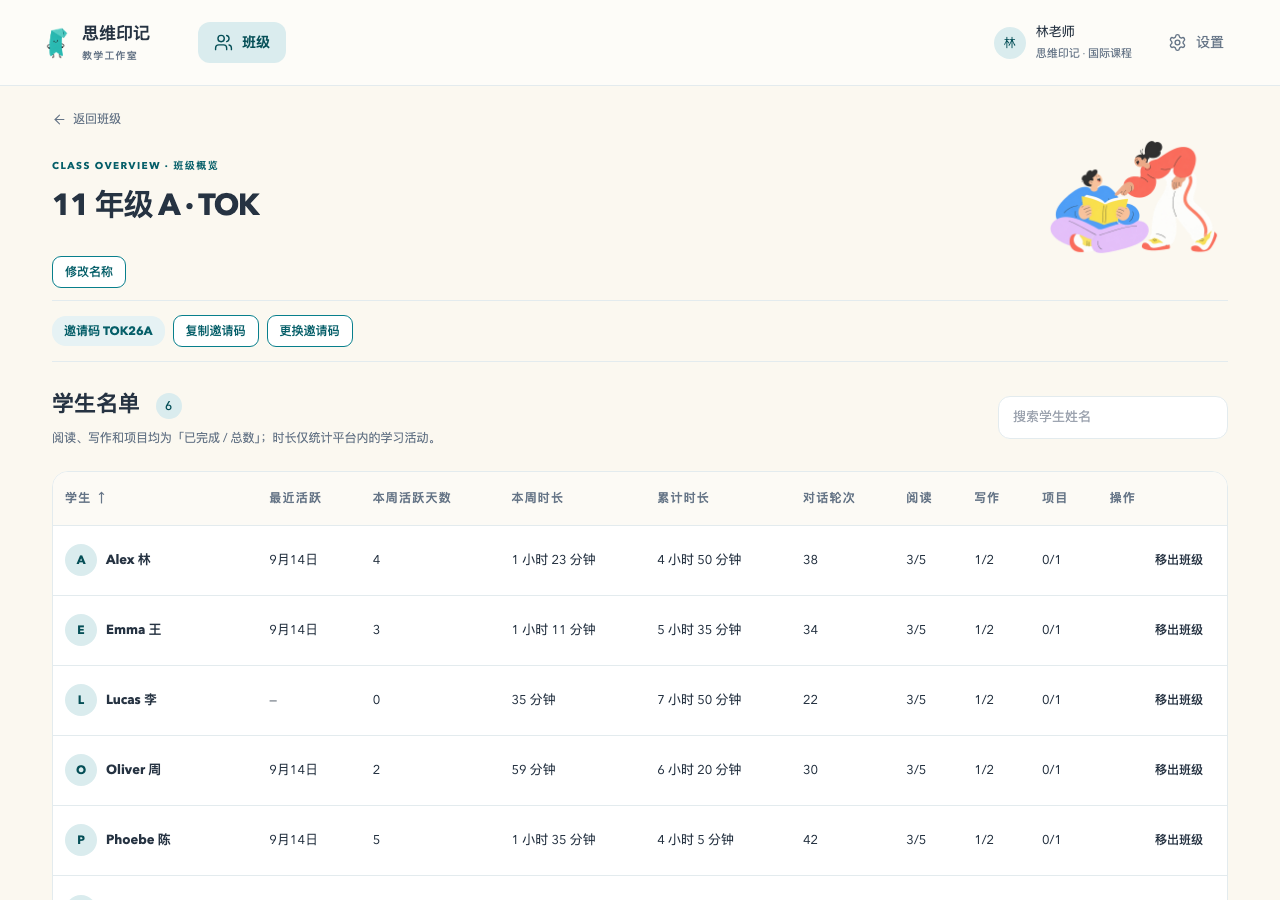
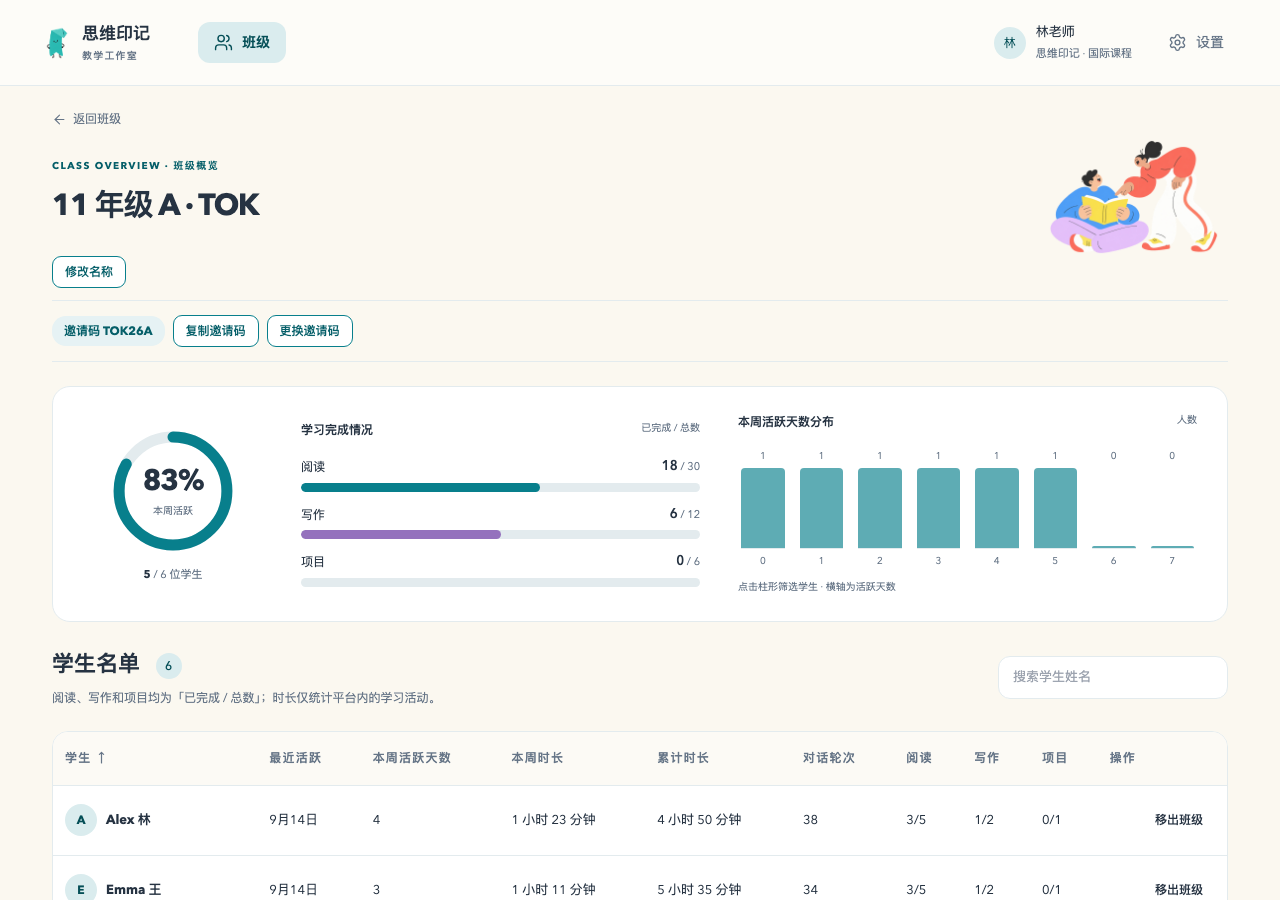
feat(lite): visualize teacher learning activity and completion

diff --git a/apps/lite-web/src/teacher/teacher-studio.css b/apps/lite-web/src/teacher/teacher-studio.css
@@ -147,3 +147,49 @@
 .teacher-roster-section td { font-size:13px; }
 .teacher-roster-section th { font-size:12px; }
 .teacher-preview-recent>div { font-size:13px; }
+.lite-teacher { --teacher-chart-writing:#9471bd; --teacher-chart-project:#cf9350; }
+.teacher-learning-snapshot { display:grid; grid-template-columns:180px minmax(220px,1fr) minmax(260px,1.15fr); gap:38px; padding:26px 30px; margin:24px 0; background:var(--mk-surface); border:1px solid var(--mk-border); border-radius:18px; align-items:center; }
+.teacher-ring { position:relative; width:132px; height:132px; margin:auto; }
+.teacher-ring svg { width:100%; height:100%; fill:none; stroke-width:10; }
+.teacher-ring-track { stroke:var(--mk-border); }
+.teacher-ring-fill { stroke:var(--mk-accent-500); stroke-linecap:round; }
+.teacher-ring>div { position:absolute; inset:0; display:flex; justify-content:center; align-items:center; flex-direction:column; }
+.teacher-ring strong { font-size:29px; letter-spacing:-.04em; line-height:1.3; font-weight:650; }
+.teacher-ring span { font-size:10px; color:var(--mk-muted); margin-top:3px; }
+.teacher-participation>p { text-align:center; font-size:11px; margin-top:10px; color:var(--mk-muted); }
+.teacher-participation>p strong { color:var(--mk-ink); }
+.teacher-chart-caption { display:flex; justify-content:space-between; gap:12px; font-size:12px; font-weight:600; color:var(--mk-ink); margin-bottom:18px; }
+.teacher-chart-caption>span { font-size:10px; color:var(--mk-muted); font-weight:400; }
+.teacher-completion-row { margin-top:13px; }
+.teacher-completion-row>div:first-child { display:flex; justify-content:space-between; align-items:center; font-size:12px; margin-bottom:6px; }
+.teacher-completion-row strong { font-size:13px; font-weight:600; font-variant-numeric:tabular-nums; }
+.teacher-completion-row small { font-weight:400; color:var(--mk-muted); font-size:11px; }
+.teacher-bar-track { height:9px; background:var(--mk-border); border-radius:8px; overflow:hidden; }
+.teacher-bar-track>span { display:block; height:100%; border-radius:8px; background:var(--chart-color); transition:width .25s; }
+.teacher-histogram { display:flex; gap:9px; height:120px; align-items:stretch; }
+.teacher-histogram>button { flex:1; min-width:0; display:flex; flex-direction:column; align-items:center; padding:0 3px; border-radius:5px; }
+.teacher-histogram-value { font-size:10px; color:var(--mk-muted); margin-bottom:4px; }
+.teacher-histogram-column { display:flex; align-items:flex-end; flex:1; width:100%; border-bottom:1px solid var(--mk-border); }
+.teacher-histogram-column>span { display:block; width:100%; background:color-mix(in srgb,var(--mk-accent-500) 65%,var(--mk-surface)); border-radius:4px 4px 0 0; min-height:2px; }
+.teacher-histogram>button:hover .teacher-histogram-column>span,.teacher-histogram>button[aria-pressed=true] .teacher-histogram-column>span { background:var(--mk-accent-700); }
+.teacher-histogram>button[aria-pressed=true] { background:var(--mk-accent-50); }
+.teacher-histogram small { font-size:10px; color:var(--mk-muted); padding-top:5px; }
+.teacher-chart-note { color:var(--mk-muted); font-size:10px; margin-top:10px; line-height:1.6; }
+.teacher-learning-snapshot.is-compact { grid-template-columns:108px minmax(0,1fr); gap:14px; padding:18px 0; margin:0; border:0; border-radius:0; border-bottom:1px solid var(--mk-border); }
+.is-compact .teacher-ring { width:105px; height:105px; }
+.is-compact .teacher-ring strong { font-size:25px; }
+.is-compact .teacher-chart-caption { font-size:10px; margin-bottom:10px; }
+.is-compact .teacher-chart-caption>span { display:none; }
+.is-compact .teacher-completion-row { margin-top:10px; }
+.is-compact .teacher-completion-row>div:first-child { font-size:11px; }
+.is-compact .teacher-bar-track { height:7px; }
+.teacher-filter-chip { border-radius:20px; background:var(--mk-accent-100); color:var(--mk-accent-800); padding:8px 14px; font-size:12px; margin-bottom:16px; }
+.teacher-student-snapshot { display:grid; grid-template-columns:1fr 1.6fr; gap:48px; padding:24px 30px; background:var(--mk-surface); border:1px solid var(--mk-border); border-radius:16px; margin-bottom:22px; }
+.teacher-week-count { display:flex; align-items:baseline; gap:10px; margin-bottom:16px; }
+.teacher-week-count strong { font-size:38px; font-weight:600; line-height:1; }
+.teacher-week-count>span { font-size:12px; color:var(--mk-muted); }
+.teacher-day-segments { display:flex; gap:7px; }
+.teacher-day-segments>span { height:20px; flex:1; border-radius:4px; background:var(--mk-border); }
+.teacher-day-segments>span[data-active=true] { background:var(--mk-accent-500); }
+@media(max-width:1000px){.teacher-learning-snapshot:not(.is-compact){grid-template-columns:130px 1fr;gap:24px}.teacher-activity-chart{grid-column:1/-1}.teacher-student-snapshot{gap:24px}}
+.teacher-student-page .teacher-stat-strip { grid-template-columns:repeat(3,minmax(0,1fr)); }

diff --git a/apps/lite-web/src/teacher/LearningSnapshot.tsx b/apps/lite-web/src/teacher/LearningSnapshot.tsx
@@ -1,0 +1,47 @@
+import type { CSSProperties } from "react";
+import type { RosterRow } from "../api/teacher";
+
+const areas = [
+  { label: "阅读", done: "readingsDone", total: "readingsTotal", color: "var(--mk-accent-500)" },
+  { label: "写作", done: "writingsDone", total: "writingsTotal", color: "var(--teacher-chart-writing)" },
+  { label: "项目", done: "projectsDone", total: "projectsTotal", color: "var(--teacher-chart-project)" },
+] as const;
+
+function Ring({ value, total, label }: { value: number; total: number; label: string }) {
+  const percent = total > 0 ? Math.min(100, Math.max(0, value / total * 100)) : 0;
+  return <div className="teacher-ring" role="img" aria-label={`${label}：${value} / ${total}`}>
+    <svg viewBox="0 0 120 120" aria-hidden="true"><circle className="teacher-ring-track" cx="60" cy="60" r="49" /><circle className="teacher-ring-fill" cx="60" cy="60" r="49" pathLength="100" strokeDasharray={`${percent} 100`} transform="rotate(-90 60 60)" /></svg>
+    <div><strong>{total > 0 ? `${Math.round(percent)}%` : "—"}</strong><span>{label}</span></div>
+  </div>;
+}
+
+function CompletionBars({ rows }: { rows: RosterRow[] }) {
+  return <div className="teacher-completion-bars"><p className="teacher-chart-caption">学习完成情况 <span>已完成 / 总数</span></p>{areas.map(area => {
+    const done = rows.reduce((sum, row) => sum + row[area.done], 0);
+    const total = rows.reduce((sum, row) => sum + row[area.total], 0);
+    return <div className="teacher-completion-row" key={area.label} style={{ "--chart-color": area.color } as CSSProperties}>
+      <div><span>{area.label}</span><strong>{done}<small> / {total}</small></strong></div>
+      <div className="teacher-bar-track" role="img" aria-label={`${area.label}：已完成 ${done} 项，共 ${total} 项`} title={`${area.label}：${done} / ${total}`}><span style={{ width: `${total > 0 ? Math.min(100, done / total * 100) : 0}%` }} /></div>
+    </div>;
+  })}</div>;
+}
+
+export function LearningSnapshot({ rows, compact = false, selectedDays, onSelectDays }: {
+  rows: RosterRow[];
+  compact?: boolean;
+  selectedDays?: number | null;
+  onSelectDays?: (days: number | null) => void;
+}) {
+  const active = rows.filter(row => row.activeDaysThisWeek > 0).length;
+  const bins = Array.from({ length: 8 }, (_, days) => rows.filter(row => row.activeDaysThisWeek === days).length);
+  const max = Math.max(1, ...bins);
+  return <div className={`teacher-learning-snapshot${compact ? " is-compact" : ""}`}>
+    <div className="teacher-participation"><Ring value={active} total={rows.length} label="本周活跃" /><p><strong>{active}</strong> / {rows.length} 位学生</p></div>
+    <CompletionBars rows={rows} />
+    {!compact && <div className="teacher-activity-chart"><div className="teacher-chart-caption">本周活跃天数分布 <span>人数</span></div><div className="teacher-histogram">{bins.map((count, days) => <button key={days} type="button" disabled={!onSelectDays} aria-pressed={selectedDays === days} aria-label={`活跃 ${days} 天：${count} 人`} title={`活跃 ${days} 天：${count} 人，点击筛选名单`} onClick={() => onSelectDays?.(selectedDays === days ? null : days)}><span className="teacher-histogram-value">{count}</span><span className="teacher-histogram-column"><span style={{ height: `${count / max * 100}%` }} /></span><small>{days}</small></button>)}</div><p className="teacher-chart-note">点击柱形筛选学生 · 横轴为活跃天数</p></div>}
+  </div>;
+}
+
+export function StudentLearningSnapshot({ student }: { student: RosterRow }) {
+  return <div className="teacher-student-snapshot"><div><p className="teacher-chart-caption">本周学习参与</p><div className="teacher-week-count"><strong>{student.activeDaysThisWeek}</strong><span>个活跃日</span></div><div className="teacher-day-segments" role="img" aria-label={`本周有 ${student.activeDaysThisWeek} 个活跃日，最多 7 天`}>{Array.from({ length: 7 }, (_, i) => <span key={i} data-active={i < student.activeDaysThisWeek} />)}</div><p className="teacher-chart-note">按活跃天数计，不代表连续学习</p></div><CompletionBars rows={[student]} /></div>;
+}

diff --git a/apps/lite-web/src/teacher/ClassPage.tsx b/apps/lite-web/src/teacher/ClassPage.tsx
@@ -1,3 +1,4 @@
+import { LearningSnapshot } from "./LearningSnapshot";
 import { StudioEmpty, StudioHeading } from "./StudioArtwork";
 import { useEffect, useState } from "react";
 import { ArrowLeft } from "lucide-react";
@@ -94,6 +95,7 @@ export function ClassPage({
   const [busy, setBusy] = useState(false);
   const [mutationError, setMutationError] = useState<string | null>(null);
 
+  const [selectedDays, setSelectedDays] = useState<number | null>(null);
   const [query, setQuery] = useState("");
   const [copied, setCopied] = useState(false);
   const [sortKey, setSortKey] = useState<SortKey>("displayName");
@@ -178,7 +180,7 @@ export function ClassPage({
     }
   }
 
-  const sortedRoster = roster ? sortRoster(roster.filter(s => s.displayName.toLocaleLowerCase().includes(query.trim().toLocaleLowerCase())), sortKey, sortDir) : null;
+  const sortedRoster = roster ? sortRoster(roster.filter(s => (selectedDays === null || s.activeDaysThisWeek === selectedDays) && s.displayName.toLocaleLowerCase().includes(query.trim().toLocaleLowerCase())), sortKey, sortDir) : null;
 
   return (
     <div className="min-h-full">
@@ -276,8 +278,10 @@ export function ClassPage({
           </>
         )}
 
+        {roster && <LearningSnapshot rows={roster} selectedDays={selectedDays} onSelectDays={setSelectedDays} />}
         <div className="teacher-roster-section">
           <div className="teacher-section-heading"><div><h2>学生名单 <small className="teacher-count">{roster?.length ?? "—"}</small></h2><p>阅读、写作和项目均为「已完成 / 总数」；时长仅统计平台内的学习活动。</p></div><input className="teacher-search" type="search" aria-label="搜索学生" placeholder="搜索学生姓名" value={query} onChange={e => setQuery(e.target.value)} /></div>
+          {selectedDays !== null && <button className="teacher-filter-chip" onClick={() => setSelectedDays(null)}>本周活跃 {selectedDays} 天 · 清除筛选 ×</button>}
           {confirmRemove && <div className="teacher-confirm" role="alert"><p>确认移出「{roster?.find(s => s.id === confirmRemove)?.displayName}」？移出后，该学生将无法查看本班内容。</p><Button variant="danger" size="sm" disabled={busy} onClick={() => void doRemove(confirmRemove)}>确认移出</Button><Button variant="ghost" size="sm" onClick={() => setConfirmRemove(null)}>取消</Button></div>}
           {rosterError ? (
             <div className="text-mk-small font-semibold text-mk-danger">
@@ -289,7 +293,7 @@ export function ClassPage({
           ) : sortedRoster === null ? (
             <div className="text-mk-body text-mk-muted">加载中…</div>
           ) : sortedRoster.length === 0 ? (
-            <StudioEmpty>{query.trim() ? "未找到匹配的学生，请修改搜索条件。" : `暂无学生。请将邀请码 ${joinCode ?? "—"} 发给学生。`}</StudioEmpty>
+            <StudioEmpty>{query.trim() || selectedDays !== null ? "未找到匹配的学生，请修改搜索条件。" : `暂无学生。请将邀请码 ${joinCode ?? "—"} 发给学生。`}</StudioEmpty>
           ) : (
             <div className="overflow-x-auto rounded-mk-lg border border-mk-border bg-mk-surface shadow-mk-xs">
               <table className="w-full min-w-[900px] border-collapse">

diff --git a/docs/design/lite-teacher-refresh/review.html b/docs/design/lite-teacher-refresh/review.html
@@ -5,7 +5,7 @@
 <style>
 *{box-sizing:border-box}body{margin:0;background:#f5f3ed;color:#233844;font-family:"Avenir Next","PingFang SC",sans-serif}header{padding:24px 32px;background:#fff;border-bottom:1px solid #dde5e8}h1{font-size:23px;margin:0 0 8px}p{font-size:13px;color:#627782;margin:0}nav{display:flex;flex-wrap:wrap;gap:8px;margin-top:18px}button{padding:9px 13px;border:1px solid #dae3e5;border-radius:9px;background:white;color:#36545f;cursor:pointer}button[aria-pressed=true]{background:#087f8b;color:#fff;border-color:#087f8b}main{padding:22px;max-width:1500px;margin:auto}img{display:block;width:100%;height:auto;border:1px solid #dfe7e9;border-radius:12px}h2{font-size:16px;margin:0 0 14px}
 </style>
-<header><h1>Lite 教师端 · 教学工作室</h1><p>合并最新 main 后的第二轮调整：紧凑导航、班级学习概况、连续报告版式。截图使用模拟数据。</p><nav></nav></header>
+<header><h1>Lite 教师端 · 教学工作室</h1><p>最新调整：班级活跃环图、学习完成条形图、可筛选的活跃天数分布与学生学习进度。截图使用模拟数据。</p><nav></nav></header>
 <main><h2 id="label">班级首页</h2><img id="preview" src="classes.png" alt="班级首页截图"></main>
 <script>
 const pages=[['classes','班级首页'],['class','班级名单'],['student','学生档案'],['reading','阅读报告'],['writing','写作报告'],['project','项目成果'],['reading-details','阅读记录'],['writing-details','写作记录'],['project-details','项目记录'],['student-tree','兴趣树'],['settings','设置'],['classes-dark','深色主题'],['student-1280','笔记本布局'],['classes-empty','暂无班级'],['class-empty','暂无学生'],['student-empty','暂无学习记录']];

diff --git a/apps/lite-web/src/teacher/StudentPage.tsx b/apps/lite-web/src/teacher/StudentPage.tsx
@@ -1,3 +1,4 @@
+import { StudentLearningSnapshot } from "./LearningSnapshot";
 import { StudioEmpty, StudioHeading } from "./StudioArtwork";
 import { useCallback, useEffect, useMemo, useState } from "react";
 import { ArrowLeft } from "lucide-react";
@@ -132,13 +133,10 @@ export function StudentPage({
             <div className="teacher-stat-strip">
               <StatTile label="累计时长" value={formatMinutes(page.student.minutesTotal)} />
               <StatTile label="本周时长" value={formatMinutes(page.student.minutesThisWeek)} />
-              <StatTile label="本周活跃天数" value={`${page.student.activeDaysThisWeek} 天`} />
               <StatTile label="对话轮次" value={`${page.student.turns} 轮`} />
-              <StatTile label="阅读" value={`${page.student.readingsDone}/${page.student.readingsTotal}`} />
-              <StatTile label="写作" value={`${page.student.writingsDone}/${page.student.writingsTotal}`} />
-              <StatTile label="项目" value={`${page.student.projectsDone}/${page.student.projectsTotal}`} />
             </div>
 
+            <StudentLearningSnapshot student={page.student} />
             <p className="mt-3 mb-3 text-mk-small text-mk-muted">阅读、写作和项目的数量均为「已完成 / 总数」；时长仅统计在平台内的学习活动。</p>
             <ItemSection kind="reading" rows={readings} onOpenItem={onOpenItem} />
             <ItemSection kind="writing" rows={writings} onOpenItem={onOpenItem} />

diff --git a/apps/lite-web/src/teacher/ClassPreview.tsx b/apps/lite-web/src/teacher/ClassPreview.tsx
@@ -1,3 +1,4 @@
+import { LearningSnapshot } from "./LearningSnapshot";
 import { useEffect, useRef, useState } from "react";
 import { getRoster, type RosterRow } from "../api/teacher";
 
@@ -24,11 +25,7 @@ export function ClassPreview({ classId }: { classId: string }) {
     .sort((a, b) => (b.lastActiveAt ?? "").localeCompare(a.lastActiveAt ?? "")).slice(0, 3);
   return <div className="teacher-class-preview" ref={container}>
     {error ? <p className="teacher-preview-error">概况加载失败：{error}</p> : rows === null ? <p className="teacher-preview-loading">学习概况加载中…</p> : <>
-      <dl className="teacher-preview-stats">
-        <div><dd>{rows.length}</dd><dt>学生</dt></div>
-        <div><dd>{rows.filter(row => row.activeDaysThisWeek > 0).length}</dd><dt>本周活跃</dt></div>
-        <div><dd>{rows.reduce((sum, row) => sum + row.readingsDone + row.writingsDone + row.projectsDone, 0)}</dd><dt>累计完成</dt></div>
-      </dl>
+      <LearningSnapshot rows={rows} compact />
       <div className="teacher-preview-recent"><p>近期活跃学生</p>{recent.length ? recent.map(row => <div key={row.id}><span className="teacher-avatar">{Array.from(row.displayName)[0]}</span><span>{row.displayName}</span><small>本周 {row.activeDaysThisWeek} 天</small></div>) : <p className="teacher-preview-empty">{rows.length ? "暂无活跃记录" : "请通过邀请码邀请学生加入"}</p>}</div>
     </>}
   </div>;

diff --git a/docs/design/lite-teacher-refresh/README.md b/docs/design/lite-teacher-refresh/README.md
@@ -22,3 +22,9 @@ Branch: `codex/lite-teacher-visual`. Latest local main `10f065d6` was merged in 
 - Screenshots and browser checks use fixture accounts and records, not production student data. Backend authorization and production deployment were not exercised in this UI task.
 
 Open `review.html` for the visual review. `verification.json` records browser checks.
+
+## Data visualization iteration
+
+Class cards and class pages now visualize weekly active share and completed/total learning counts. The class activity histogram groups students by 0–7 active days and filters the roster when clicked. Student profiles visualize active-day count and reading/writing/project completion, replacing duplicated numeric tiles. No date-by-date activity or trend is inferred from aggregate data. Charts expose text descriptions and keyboard-operable filters.
+
+Type checking, 698 existing tests, production build and browser activity-filter checks passed. Screenshots use varied fixture classes.
